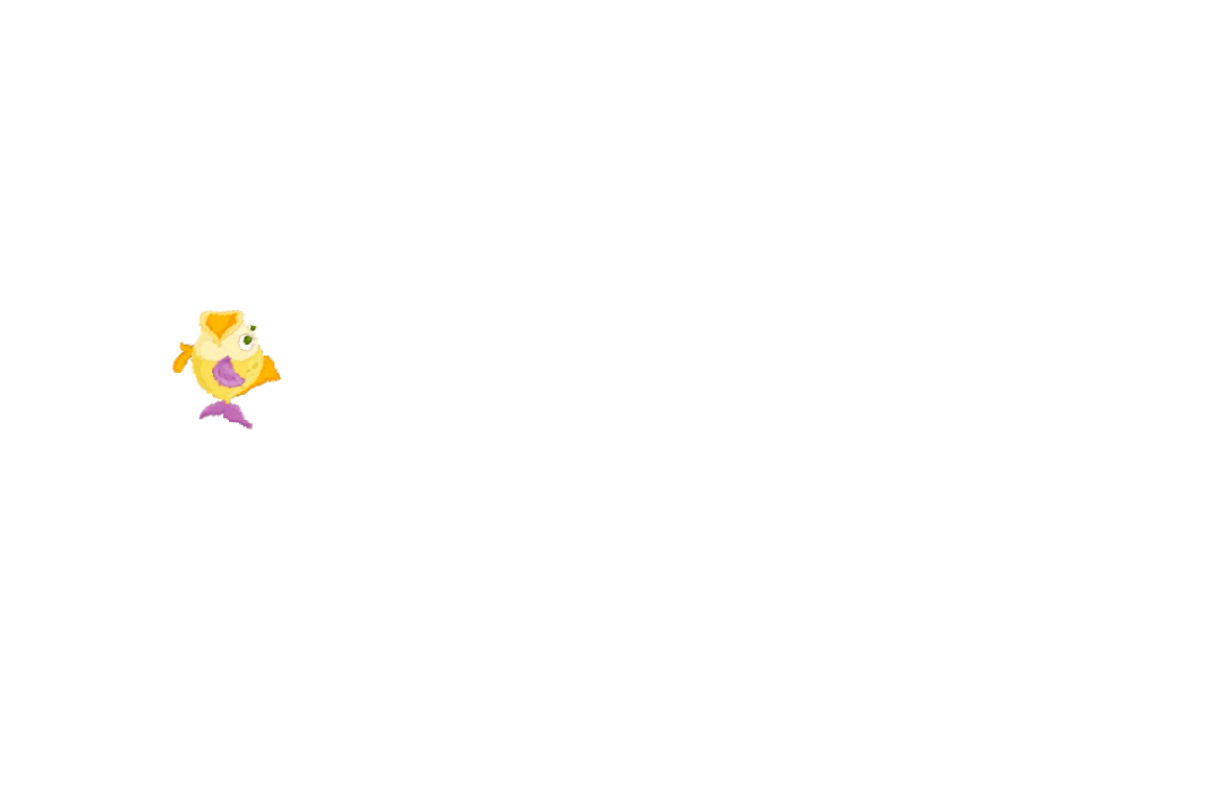
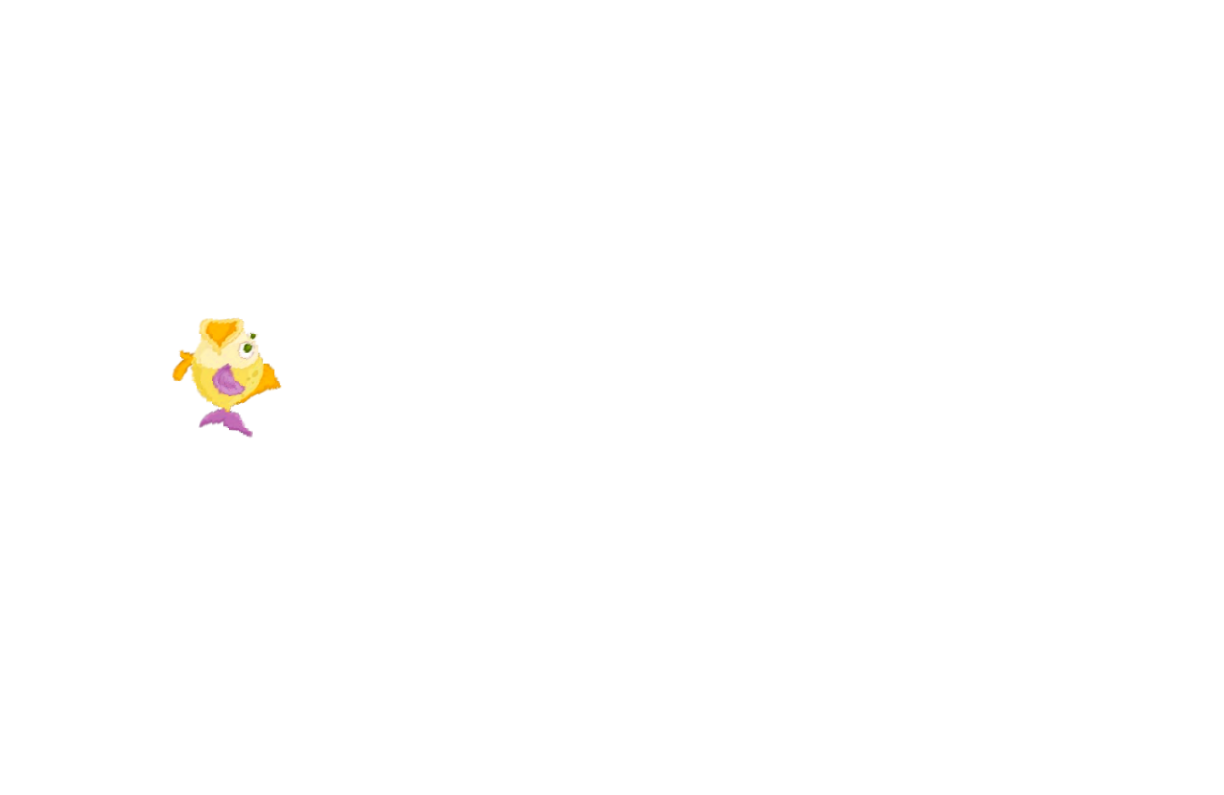
Доработан код специальной точки и формы

Changed region(s): [[0.1242, 0.3925, 0.2484, 0.5434]]

diff --git a/ImpactPoint.cs b/ImpactPoint.cs
@@ -27,20 +27,22 @@ namespace Kursach
     }
 
     /*
-     * Класс Розовая рыба - притягивает и поглощает розовые частицы
+     * Класс Рыба - притягивает и поглощает частицы определенного цвета
     */
-    public class PinkFish : ImpactPoint
+    public class Fish : ImpactPoint
     {
         public int Radius; // радиус частицы
         public int X; // X координата положения частицы в пространстве
         public int Y; // Y координата положения частицы в пространстве
         public int Fullness = 0; // количество поглощенных частиц
         public int Power = 0; // сила притяжения
+        public Color FishColor; // цвет рыбы
+        public TextureBrush fishBrush; // для отрисовки рыбы
 
-        public PinkFish()
+        public Fish()
         {
             Radius = 120;
-            Fullness = 0;
+            Fullness = 1;
         }
 
         public override void ImpactParticle(Particle particle)
@@ -49,15 +51,15 @@ namespace Kursach
             float gY = Y - particle.Y;
             double r = Math.Sqrt(gX * gX + gY * gY);
 
-            // поглощение розовых частиц
-            if (r + particle.Radius < 50 && particle.particleColor == Color.DeepPink)
+            // поглощение частиц
+            if (r + particle.Radius < 50 && particle.particleColor == FishColor)
             {
                 particle.Life = 0;
                 Fullness++;
             }
 
-            // притяжение розовых частиц
-            if (particle.particleColor == Color.DeepPink)
+            // притяжение частиц
+            if (particle.particleColor == FishColor)
             {
                 float r2 = (float)Math.Max(100, gX * gX + gY * gY);
                 particle.SpeedX += gX * Power / r2;
@@ -66,16 +68,44 @@ namespace Kursach
 
         }
 
-        TextureBrush pinkFish = new TextureBrush(Properties.Resources.fish1, System.Drawing.Drawing2D.WrapMode.Clamp);
+
         public override void Render(Graphics g)
         {
-            g.FillEllipse(
-                    pinkFish,
-                    X - Radius / 2,
-                    Y - Radius / 2 + 50,
-                    Radius,
-                    Radius
-                );
+            if (FishColor == Color.DeepPink)
+            {
+                fishBrush = new TextureBrush(Properties.Resources.fish1, System.Drawing.Drawing2D.WrapMode.Clamp);
+                g.FillEllipse(
+                        fishBrush,
+                        X - Radius / 2,
+                        Y - Radius / 2 + 50,
+                        Radius,
+                        Radius
+                    );
+            }
+
+            if (FishColor == Color.Navy)
+            {
+                fishBrush = new TextureBrush(Properties.Resources.fish2, System.Drawing.Drawing2D.WrapMode.Clamp);
+                g.FillEllipse(
+                        fishBrush,
+                        X - Radius / 2,
+                        Y - Radius / 2 + 50,
+                        Radius,
+                        Radius
+                    );
+            }
+
+            if (FishColor == Color.Gold)
+            {
+                fishBrush = new TextureBrush(Properties.Resources.fish3, System.Drawing.Drawing2D.WrapMode.Clamp);
+                g.FillEllipse(
+                        fishBrush,
+                        X - Radius / 2,
+                        Y - Radius / 2 + 50,
+                        Radius,
+                        Radius
+                    );
+            }
 
             var stringFormat = new StringFormat();
             stringFormat.Alignment = StringAlignment.Center; // выравнивание по горизонтали
@@ -92,136 +122,4 @@ namespace Kursach
                 );
         }
     }
-
-    /*
-     * Класс Синяя рыба - притягивает и поглощает синие частицы 
-    */
-    public class BlueFish : ImpactPoint
-    {
-        public int Radius; // радиус частицы
-        public int X; // X координата положения частицы в пространстве
-        public int Y; // Y координата положения частицы в пространстве
-        public int Fullness = 0; // количество поглощенных частиц
-        public int Power = 0; // сила притяжения
-
-        public BlueFish()
-        {
-            Radius = 120;
-            Fullness = 0;
-        }
-        public override void ImpactParticle(Particle particle)
-        {
-            float gX = X - particle.X;
-            float gY = Y - particle.Y;
-            double r = Math.Sqrt(gX * gX + gY * gY);
-
-            // поглощение синих частиц
-            if (r + particle.Radius < 50 && particle.particleColor == Color.Navy)
-            {
-                particle.Life = 0;
-                Fullness++;
-            }
-
-            // притяжение синих частиц
-            if (particle.particleColor == Color.Navy)
-            {
-                float r2 = (float)Math.Max(100, gX * gX + gY * gY);
-                particle.SpeedX += gX * Power / r2;
-                particle.SpeedY += gY * Power / r2;
-            }
-        }
-
-        TextureBrush blueFish = new TextureBrush(Properties.Resources.fish2, System.Drawing.Drawing2D.WrapMode.Clamp);
-        public override void Render(Graphics g)
-        {
-            g.FillEllipse(
-                    blueFish,
-                    X - Radius / 2,
-                    Y - Radius / 2 + 50,
-                    Radius,
-                    Radius
-                );
-
-            var stringFormat = new StringFormat();
-            stringFormat.Alignment = StringAlignment.Center; // выравнивание по горизонтали
-            stringFormat.LineAlignment = StringAlignment.Center; // выравнивание по вертикали
-            var text = $"Съедено: {Fullness}";
-            var font = new Font("Verdana", 10);
-            g.DrawString(
-                    text,
-                    font,
-                    new SolidBrush(Color.Black),
-                    X,
-                    Y + 120,
-                    stringFormat
-                );
-        }
-    }
-
-    /*
-     * Класс Желтая рыба - притягивает и поглощает желтые частицы 
-    */
-    public class YellowFish : ImpactPoint
-    {
-        public int Radius; // радиус частицы
-        public int X; // X координата положения частицы в пространстве
-        public int Y; // Y координата положения частицы в пространстве
-        public int Fullness = 0; // количество поглощенных частиц
-        public int Power = 0; // сила притяжения
-
-        public YellowFish()
-        {
-            Radius = 120;
-            Fullness = 0;
-        }
-        public override void ImpactParticle(Particle particle)
-        {
-            float gX = X - particle.X;
-            float gY = Y - particle.Y;
-            double r = Math.Sqrt(gX * gX + gY * gY);
-
-            // поглощение желтых частиц
-            if (r + particle.Radius < 50 && particle.particleColor == Color.Gold)
-            {
-                particle.Life = 0;
-                Fullness++;
-            }
-
-            // притяжение желтых частиц
-            if (particle.particleColor == Color.Gold)
-            {
-                float r2 = (float)Math.Max(100, gX * gX + gY * gY);
-                particle.SpeedX += gX * Power / r2;
-                particle.SpeedY += gY * Power / r2;
-            }
-        }
-
-        TextureBrush yellowFish = new TextureBrush(Properties.Resources.fish3, System.Drawing.Drawing2D.WrapMode.Clamp);
-        public override void Render(Graphics g)
-        {
-            g.FillEllipse(
-                    yellowFish,
-                    X - Radius / 2,
-                    Y - Radius / 2 + 45,
-                    Radius,
-                    Radius
-               );
-
-            var stringFormat = new StringFormat();
-            stringFormat.Alignment = StringAlignment.Center; // выравнивание по горизонтали
-            stringFormat.LineAlignment = StringAlignment.Center; // выравнивание по вертикали
-            var text = $"Съедено: {Fullness}";
-            var font = new Font("Verdana", 10);
-            g.DrawString(
-                    text,
-                    font,
-                    new SolidBrush(Color.Black),
-                    X,
-                    Y + 120,
-                    stringFormat
-                );
-        }
-
-    }
-
 }

diff --git a/Form1.cs b/Form1.cs
@@ -14,9 +14,9 @@ namespace Kursach
     {
         List<Emitter> emitters = new List<Emitter>();
         Emitter emitter, pemitter, bemitter, yemitter;
-        PinkFish pFish = new PinkFish(); // розовая рыба
-        BlueFish bFish = new BlueFish(); // синяя рыба
-        YellowFish yFish = new YellowFish(); // желтая рыба
+        Fish pFish = new Fish(); // розовая рыба
+        Fish bFish = new Fish(); // синяя рыба
+        Fish yFish = new Fish(); // желтая рыба
         int yfull = 200, pfull = 50, bfull = 100; // максимальное число поглощенных частиц
 
         public Form1()
@@ -75,20 +75,17 @@ namespace Kursach
             emitters.Add(this.yemitter);
 
 
-            pFish = new PinkFish();
-
+            pFish.FishColor = Color.DeepPink;
             pFish.X = picDisplay.Width / 2;
             pFish.Y = picDisplay.Height / 2;
             emitter.impactPoints.Add(pFish);
 
-            bFish = new BlueFish();
-
+            bFish.FishColor = Color.Navy;
             bFish.X = picDisplay.Width * 3 / 4;
             bFish.Y = picDisplay.Height / 2;
             emitter.impactPoints.Add(bFish);
 
-            yFish = new YellowFish();
-
+            yFish.FishColor = Color.Gold;
             yFish.X = picDisplay.Width / 4;
             yFish.Y = picDisplay.Height / 2;
             emitter.impactPoints.Add(yFish);
@@ -119,7 +116,7 @@ namespace Kursach
             picDisplay.Invalidate();
 
             // проверка количества поглощенных частиц розовой рыбой
-            if (pFish.Fullness % pfull == 0 || pFish.Fullness % (pfull + 1) == 0 || pFish.Fullness % (pfull + 2) == 0)
+            if (pFish.Fullness >= pfull)
             {
                 pemitter.ParticlesPerTick = 80; // испускание фонтанчика
                 pFish.Fullness = 1; // обнуление счетчика
@@ -128,7 +125,7 @@ namespace Kursach
                 pemitter.ParticlesPerTick = 0;
 
             // проверка количества поглощенных частиц синей рыбой
-            if (bFish.Fullness % bfull == 0 || bFish.Fullness % (bfull + 1) == 0 || bFish.Fullness % (bfull + 2) == 0)
+            if (bFish.Fullness >= bfull)
             {
                 bemitter.ParticlesPerTick = 80;
                 bFish.Fullness = 1;
@@ -137,7 +134,7 @@ namespace Kursach
                 bemitter.ParticlesPerTick = 0;
 
             // проверка количества поглощенных частиц желтой рыбой
-            if (yFish.Fullness % yfull == 0 || yFish.Fullness % (yfull + 1) == 0 || yFish.Fullness % (yfull + 2) == 0)
+            if (yFish.Fullness >= yfull)
             {
                 yemitter.ParticlesPerTick = 80;
                 yFish.Fullness = 1;
